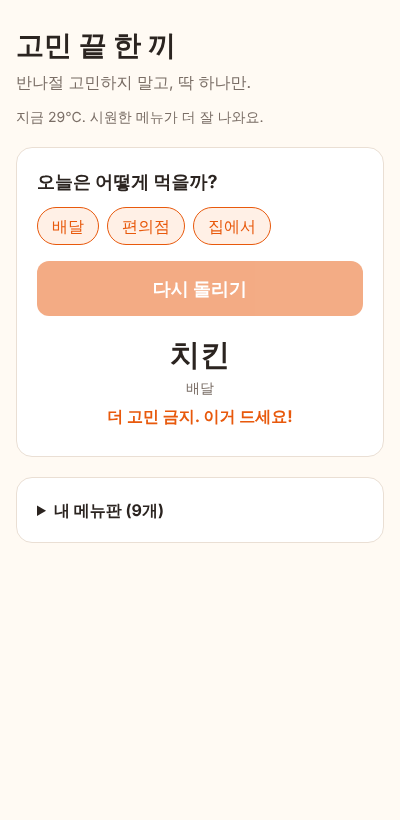
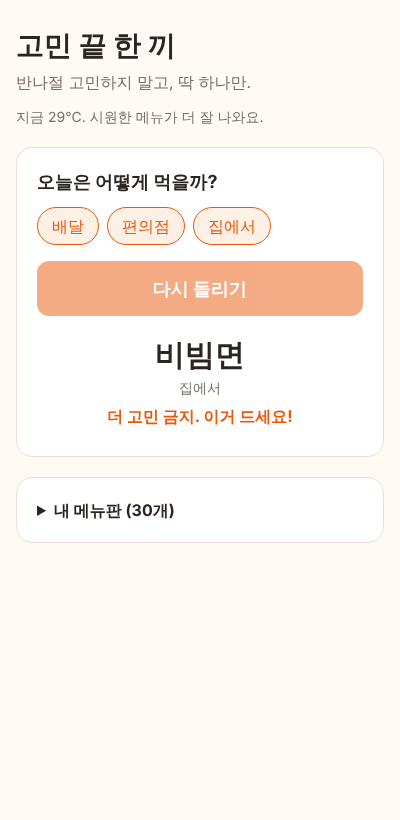
편의점 '같이 살 것' 기능 제거, 화면 캡처 다시 찍기
Claude-Session: https://claude.ai/code/session_01T81UYEgweULnp4ftCZgcoA

Changed region(s): [[0.39, 0.3963, 0.6, 0.4878], [0.33, 0.6098, 0.45, 0.6402]]

diff --git a/app.js b/app.js
@@ -20,7 +20,6 @@ const store = {
 
 let menu = store.get('menu', DEFAULT_MENU);
 let types = store.get('types', Object.keys(TYPES));
-let cvsExtra = store.get('cvsExtra', '');
 let mood = 'any';
 let shown = []; // 이번에 이미 나온 메뉴 id
 let rolling = false;
@@ -75,11 +74,8 @@ function showResult(item) {
   $('result').innerHTML = `
     <div class="name"></div>
     <div class="meta">${TYPES[item.type]}</div>
-    ${item.type === 'cvs' && cvsExtra ? '<div class="extra-note"></div>' : ''}
     ${isFinal ? '<div class="final">더 고민 금지. 이거 드세요!</div>' : ''}`;
   $('result').querySelector('.name').textContent = item.name;
-  const note = $('result').querySelector('.extra-note');
-  if (note) note.textContent = `${cvsExtra} 떨어졌으면 같이 사기`;
 }
 
 function spin() {
@@ -134,12 +130,6 @@ function setupForm() {
     $('add-name').value = '';
     touched.type = touched.mood = false;
     renderMenu();
-  });
-
-  $('cvs-extra').value = cvsExtra;
-  $('cvs-extra').addEventListener('input', () => {
-    cvsExtra = $('cvs-extra').value.trim();
-    store.set('cvsExtra', cvsExtra);
   });
 
   $('reset-menu').addEventListener('click', () => {

diff --git a/style.css b/style.css
@@ -76,7 +76,6 @@ button { font: inherit; cursor: pointer; }
 .result .name { font-size: 30px; font-weight: 800; }
 .result .name.rolling { color: var(--muted); }
 .result .meta { color: var(--muted); font-size: 14px; }
-.result .extra-note { margin-top: 8px; font-size: 14px; color: var(--accent); }
 .result .final { margin-top: 6px; font-weight: 700; color: var(--accent); }
 
 summary { font-weight: 700; cursor: pointer; }
@@ -91,11 +90,10 @@ summary { font-weight: 700; cursor: pointer; }
 
 .add { display: flex; gap: 6px; flex-wrap: wrap; margin-top: 8px; }
 .add input { flex: 1 1 140px; }
-.add input, .add select, .extra input {
+.add input, .add select {
   padding: 8px; border: 1px solid var(--line); border-radius: 8px;
   background: var(--bg); color: var(--text); font: inherit;
 }
 .add button { padding: 8px 14px; border: 0; border-radius: 8px; background: var(--accent); color: #fff; }
 
-.extra { display: flex; flex-direction: column; gap: 4px; margin-top: 16px; font-size: 14px; color: var(--muted); }
 .link { margin-top: 12px; border: 0; background: none; color: var(--muted); text-decoration: underline; padding: 0; font-size: 13px; }

diff --git a/index.html b/index.html
@@ -32,10 +32,6 @@
         <select id="add-mood"></select>
         <button>추가</button>
       </form>
-      <label class="extra">
-        편의점 갈 때 같이 살 것
-        <input id="cvs-extra" placeholder="예: 기린 이치방" maxlength="30">
-      </label>
       <button id="reset-menu" class="link">기본 메뉴판으로 되돌리기</button>
     </details>
   </main>

diff --git a/README.md b/README.md
@@ -16,7 +16,6 @@
 - **자동 분류**: 메뉴 이름을 치면 종류와 날씨 성향을 알아서 채웁니다. 예를 들어 "순대국"은 배달 · 따뜻한 거, "컵라면"은 편의점 · 따뜻한 거가 됩니다. 틀리면 직접 바꾸면 되고, 직접 바꾼 값이 우선합니다.
 - **날씨 반영**: 현재 위치 날씨를 가져와서 비 오거나 10°C 미만이면 따뜻한 메뉴, 25°C 이상이면 시원한 메뉴가 3배 더 잘 나옵니다.
 - **다시 돌리기 2번 제한**: 세 번째 결과에서 "더 고민 금지. 이거 드세요!"로 끝납니다. 장바구니 넣었다 빼는 습관을 막는 장치입니다.
-- **편의점 같이 살 것**: 예를 들어 "기린 이치방"을 적어두면 편의점 메뉴가 나올 때 "떨어졌으면 같이 사기"를 띄웁니다.
 
 | 비 오는 날 | 더운 날 | 예외 상황 |
 |---|---|---|
